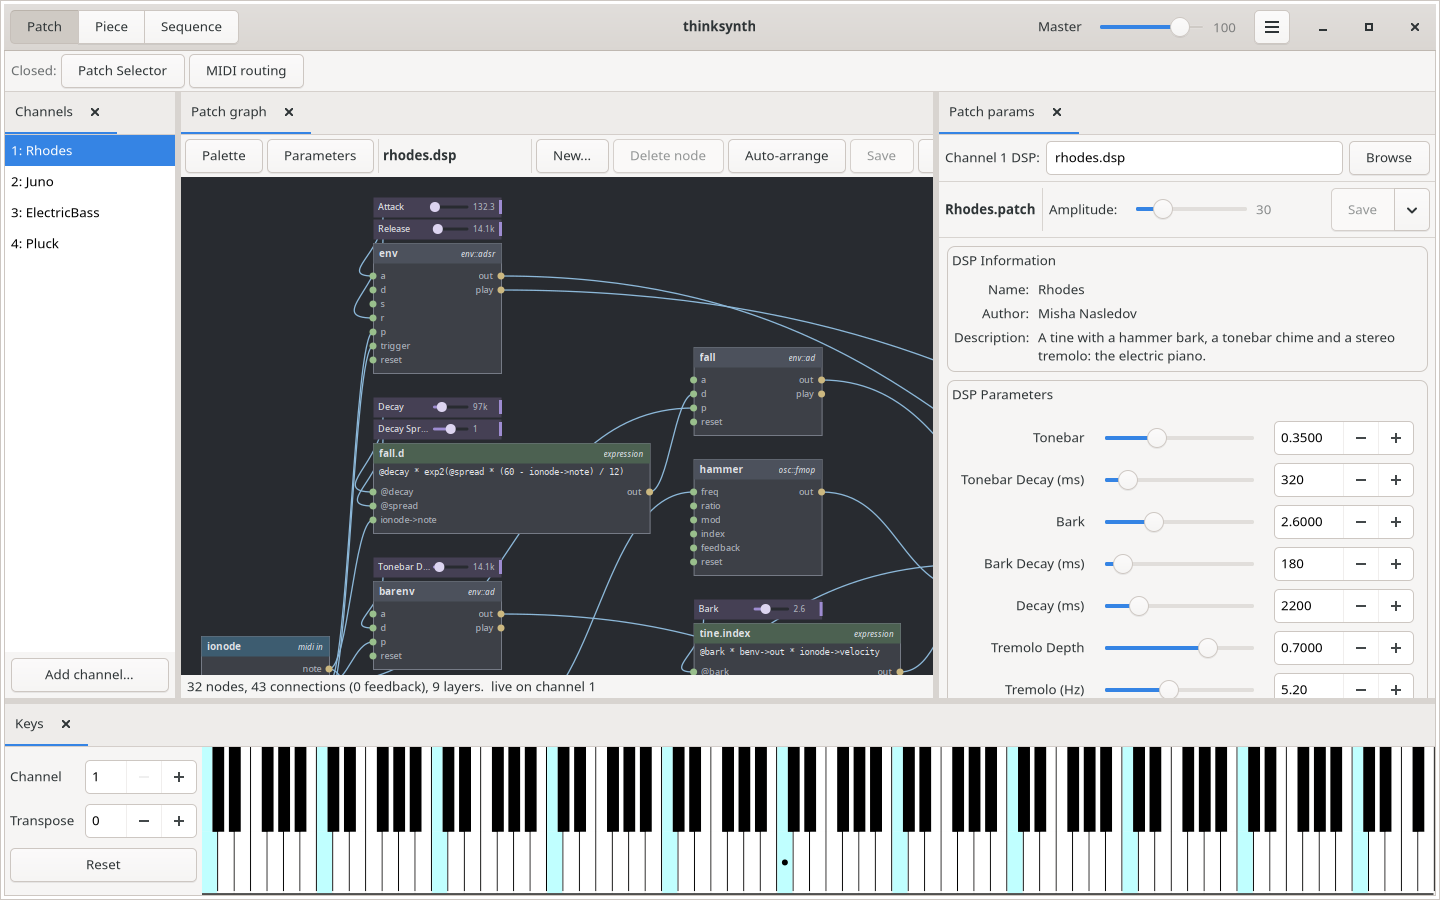
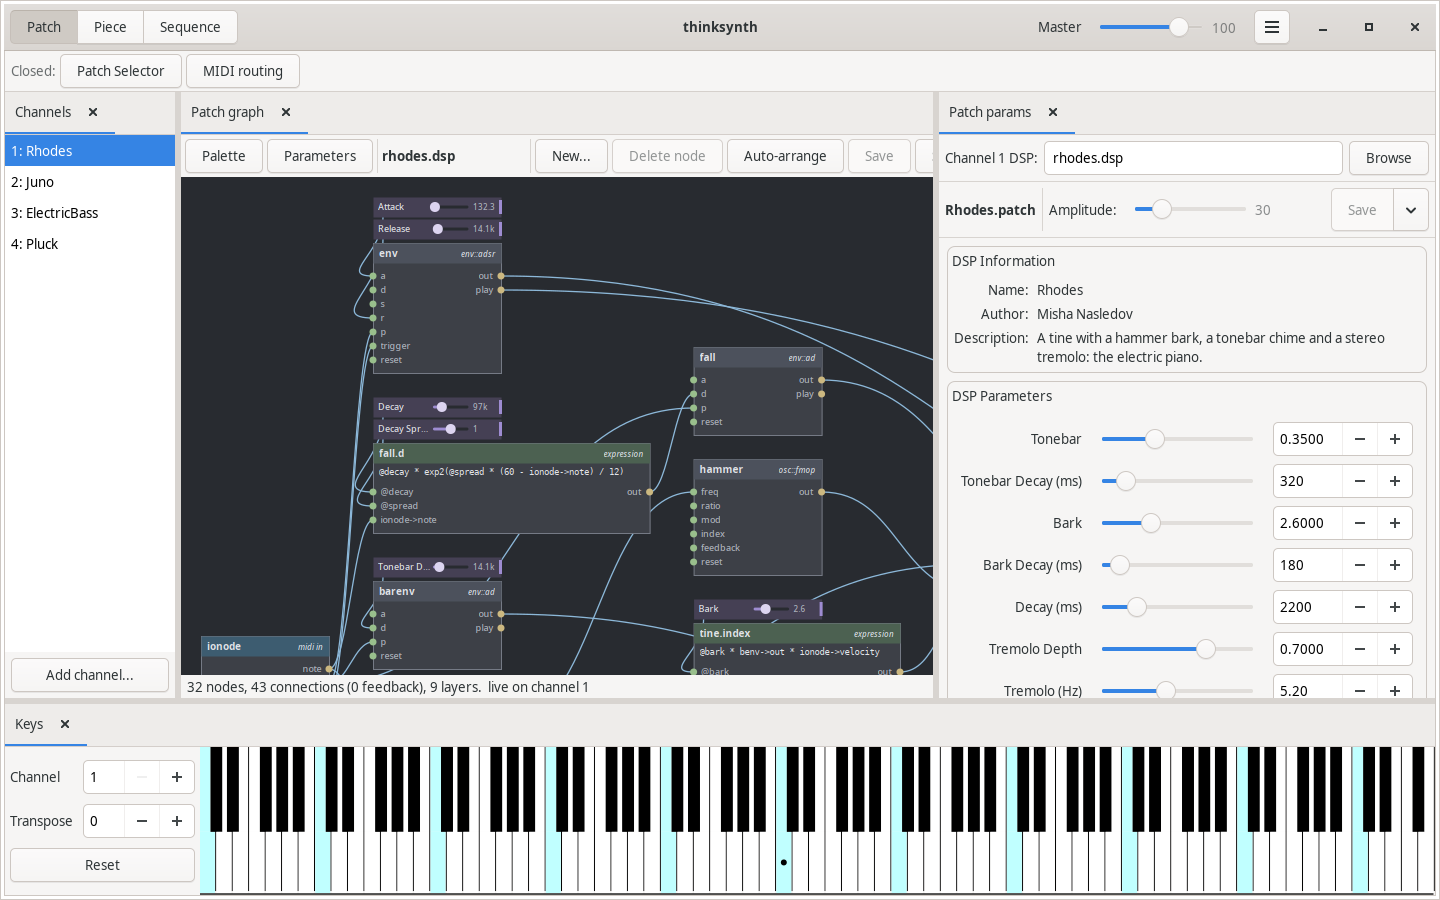
docs: the desktop screenshots by shotbox 0.6.0, piece() as a play script
screenshots.py's piece() is one run of input, from piece mode to the
picture, so it is now one shotbox play script, with the piece's name,
the windows, Play and PLAY_SECONDS passed in as variables rather than
put into the text. Each step's options are checked before the first
runs, and a step that fails says its line. patch() and sequence() are
a few calls each and stay as they were.

shotbox 0.6.0 draws GTK 4 text with manual font rendering, so the three
desktop pictures are retaken: text is darker and narrower, and what it
sits in a pixel or two smaller. Nothing else in them changed. npm's
shotbox is 0.6.0 too; its helpers are the same as 0.4.3's, and the
browser's pictures are not retaken.

diff --git a/scripts/screenshots.py b/scripts/screenshots.py
@@ -17,9 +17,9 @@ BUILD_DIR is a native build (build/), OUT_DIR where the pictures go
 Taken with shotbox (https://github.com/mishan/shotbox) in a sealed
 session: its own X display, D-Bus and scratch home, so the window comes
 up at a first run's size and layout, with GTK's own defaults rather than
-whoever runs this. Its Python module has to be importable: `pip install
-shotbox' into a venv made with --system-site-packages, for GTK's
-bindings.
+whoever runs this. Its Python module, 0.6.0 or later for play(), has to
+be importable: `pip install shotbox' into a venv made with
+--system-site-packages, for GTK's bindings.
 
 The audio is a real stream, into scripts/headless.sh's null sink, since a
 piece's transport is clocked by the device: -d none would draw a piano
@@ -94,28 +94,30 @@ def patch():
 def piece(name):
     with session() as s:
         start(s, "desktop-piece.log")
+        s.play("""
+            # Piece mode, then the menu's Open Piece... by its mnemonic.
+            key ctrl+2
+            wait stable --window ${WINDOW}
+            key F10
+            wait stable
+            key o
+            wait window ${BROWSER}
+            wait stable --window ${BROWSER}
 
-        # Piece mode, then the menu's Open Piece... by its mnemonic.
-        s.key("ctrl+2")
-        s.wait_stable(window=WINDOW)
-        s.key("F10")
-        s.wait_stable()
-        s.key("o")
-        s.wait_window(BROWSER)
-        s.wait_stable(window=BROWSER)
+            # The filter, then the one piece it leaves. A click first: there
+            # is no window manager to give the dialog the keyboard.
+            click 230 22 --window ${BROWSER}
+            type ${NAME}
+            wait stable --window ${BROWSER}
+            click 50 80 --window ${BROWSER} --double
+            wait stable --window ${WINDOW}
 
-        # The filter, then the one piece it leaves. A click first: there is
-        # no window manager to give the dialog the keyboard.
-        s.click(230, 22, window=BROWSER)
-        s.type(name)
-        s.wait_stable(window=BROWSER)
-        s.click(50, 80, window=BROWSER, double=True)
-        s.wait_stable(window=WINDOW)
-
-        s.click(*PLAY, window=WINDOW)
-        time.sleep(PLAY_SECONDS)
-        s.capture(os.path.join(OUT, "desktop-piece.png"), window=WINDOW,
-                  park=True)
+            click ${PLAY_X} ${PLAY_Y} --window ${WINDOW}
+            +${PLAY_SECONDS} capture ${OUT} --window ${WINDOW} --park
+        """, vars={"WINDOW": WINDOW, "BROWSER": BROWSER, "NAME": name,
+                   "PLAY_X": PLAY[0], "PLAY_Y": PLAY[1],
+                   "PLAY_SECONDS": PLAY_SECONDS,
+                   "OUT": os.path.join(OUT, "desktop-piece.png")})
 
 
 def sequence():
